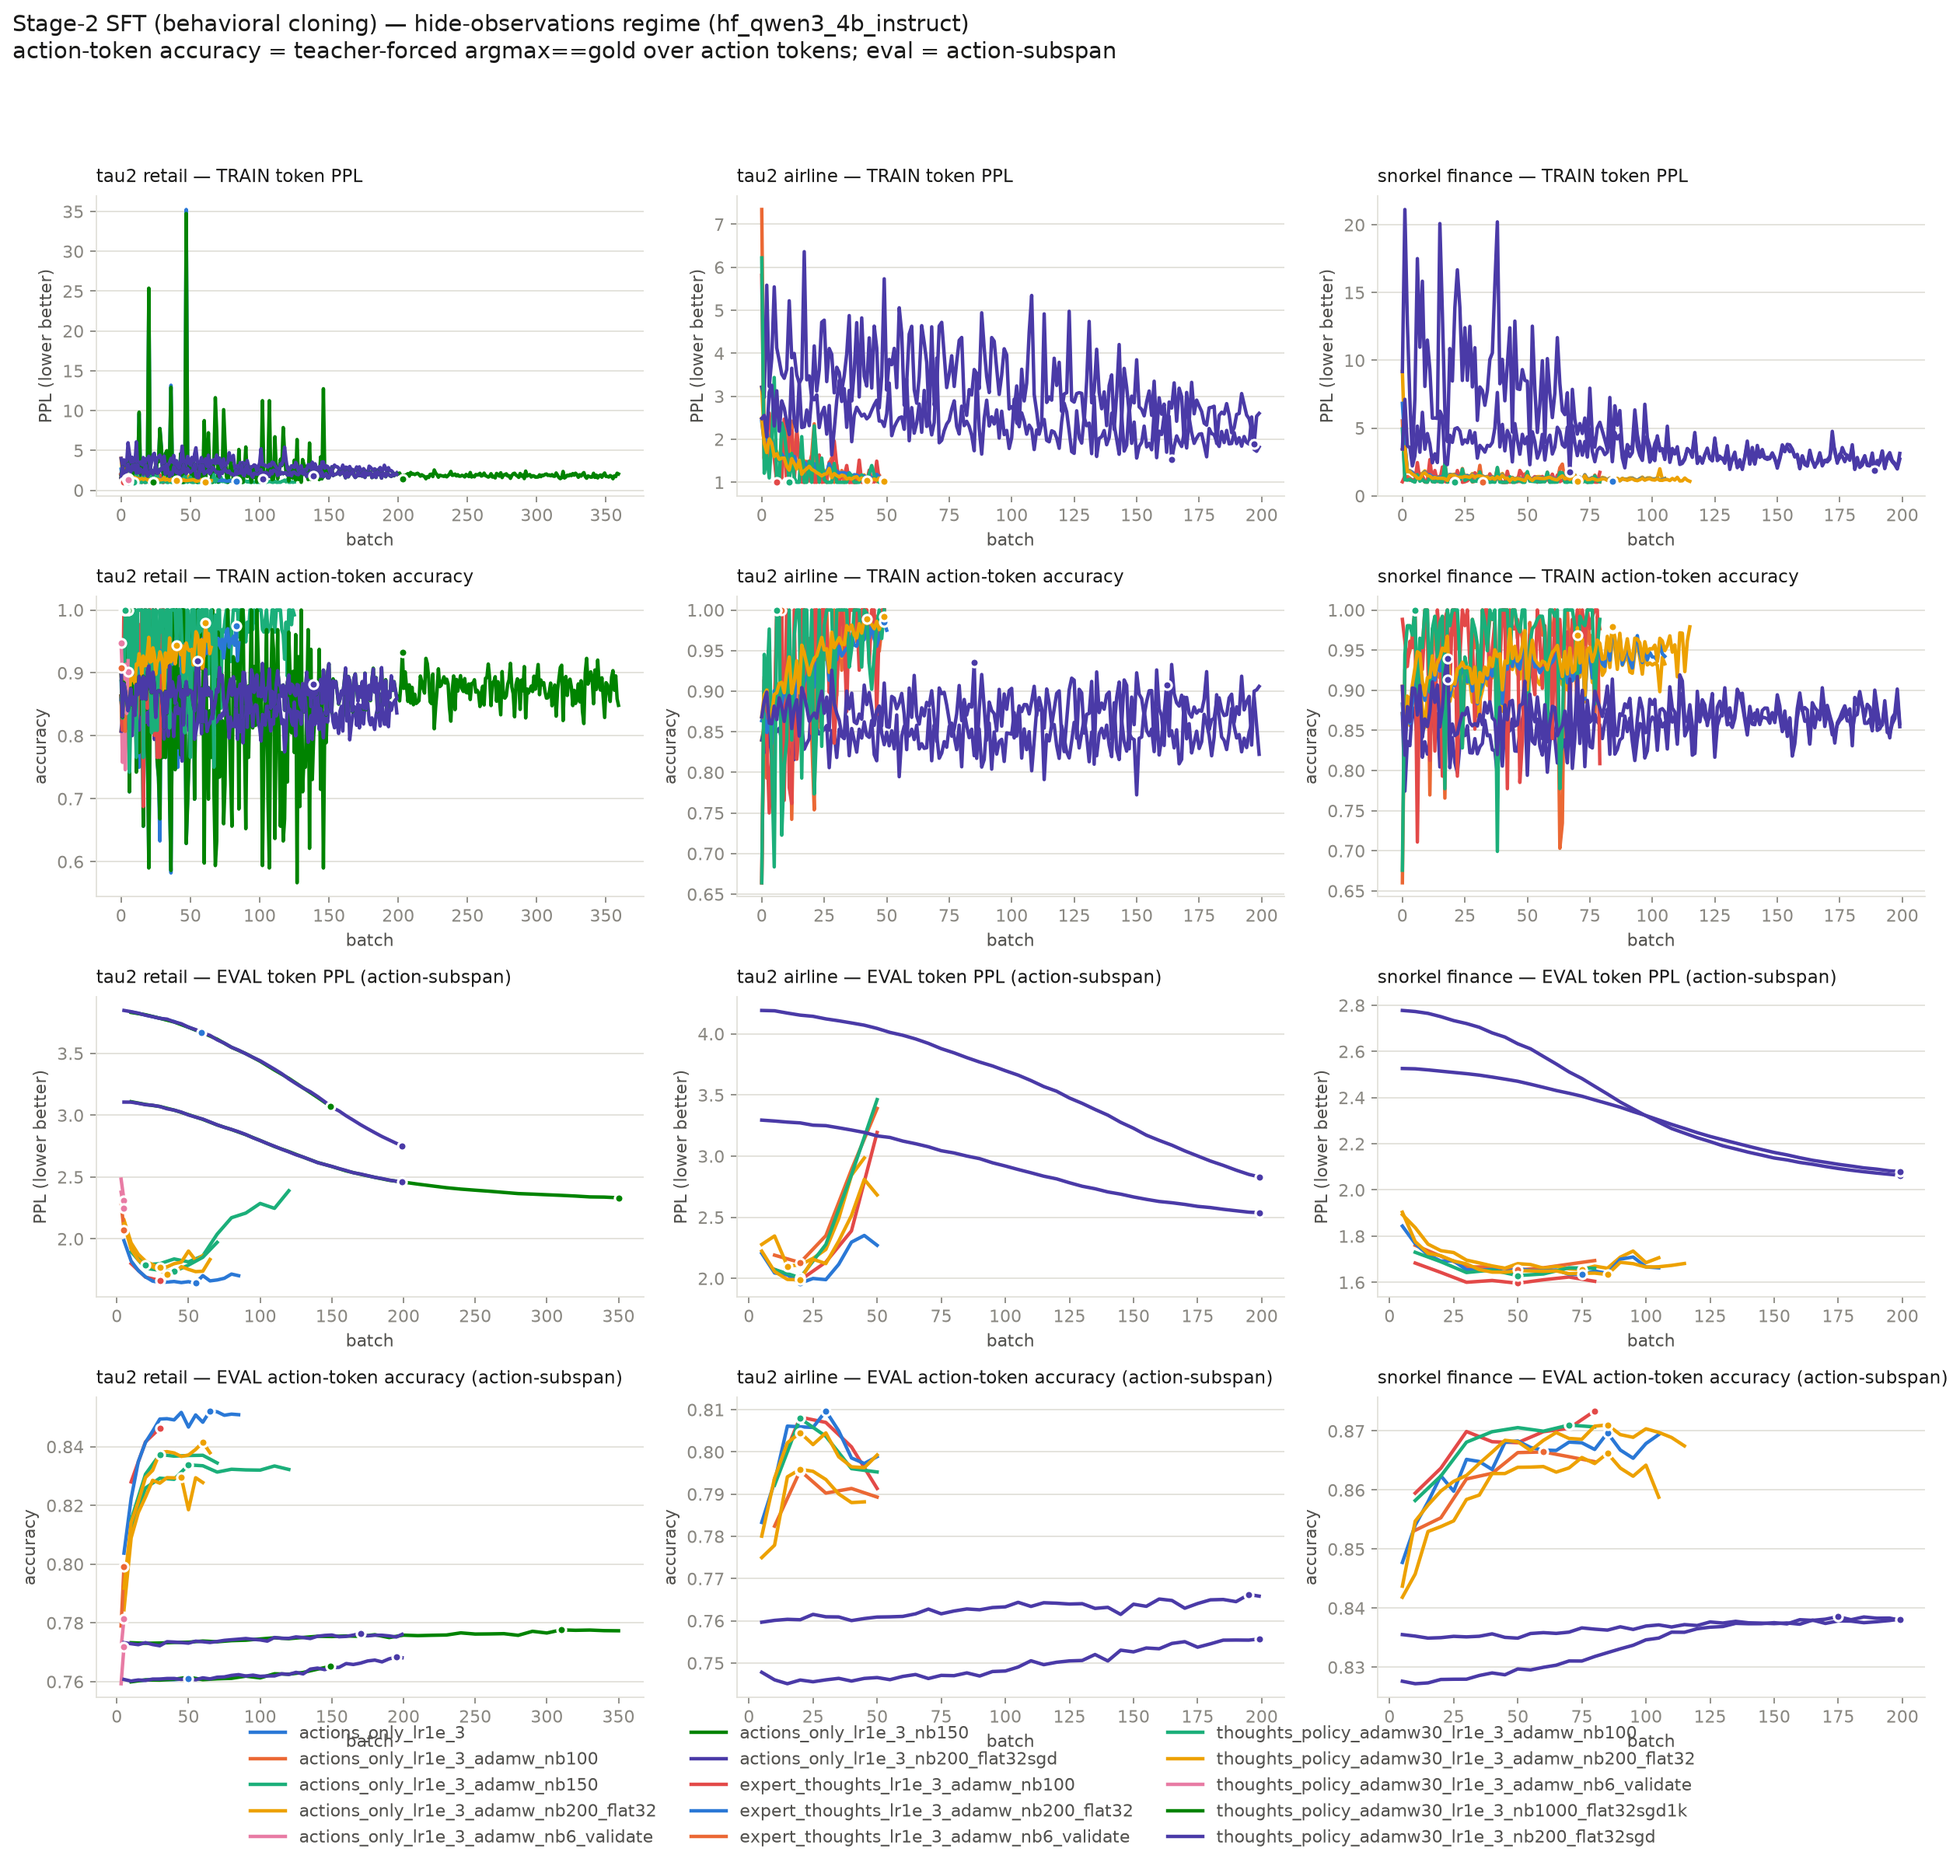
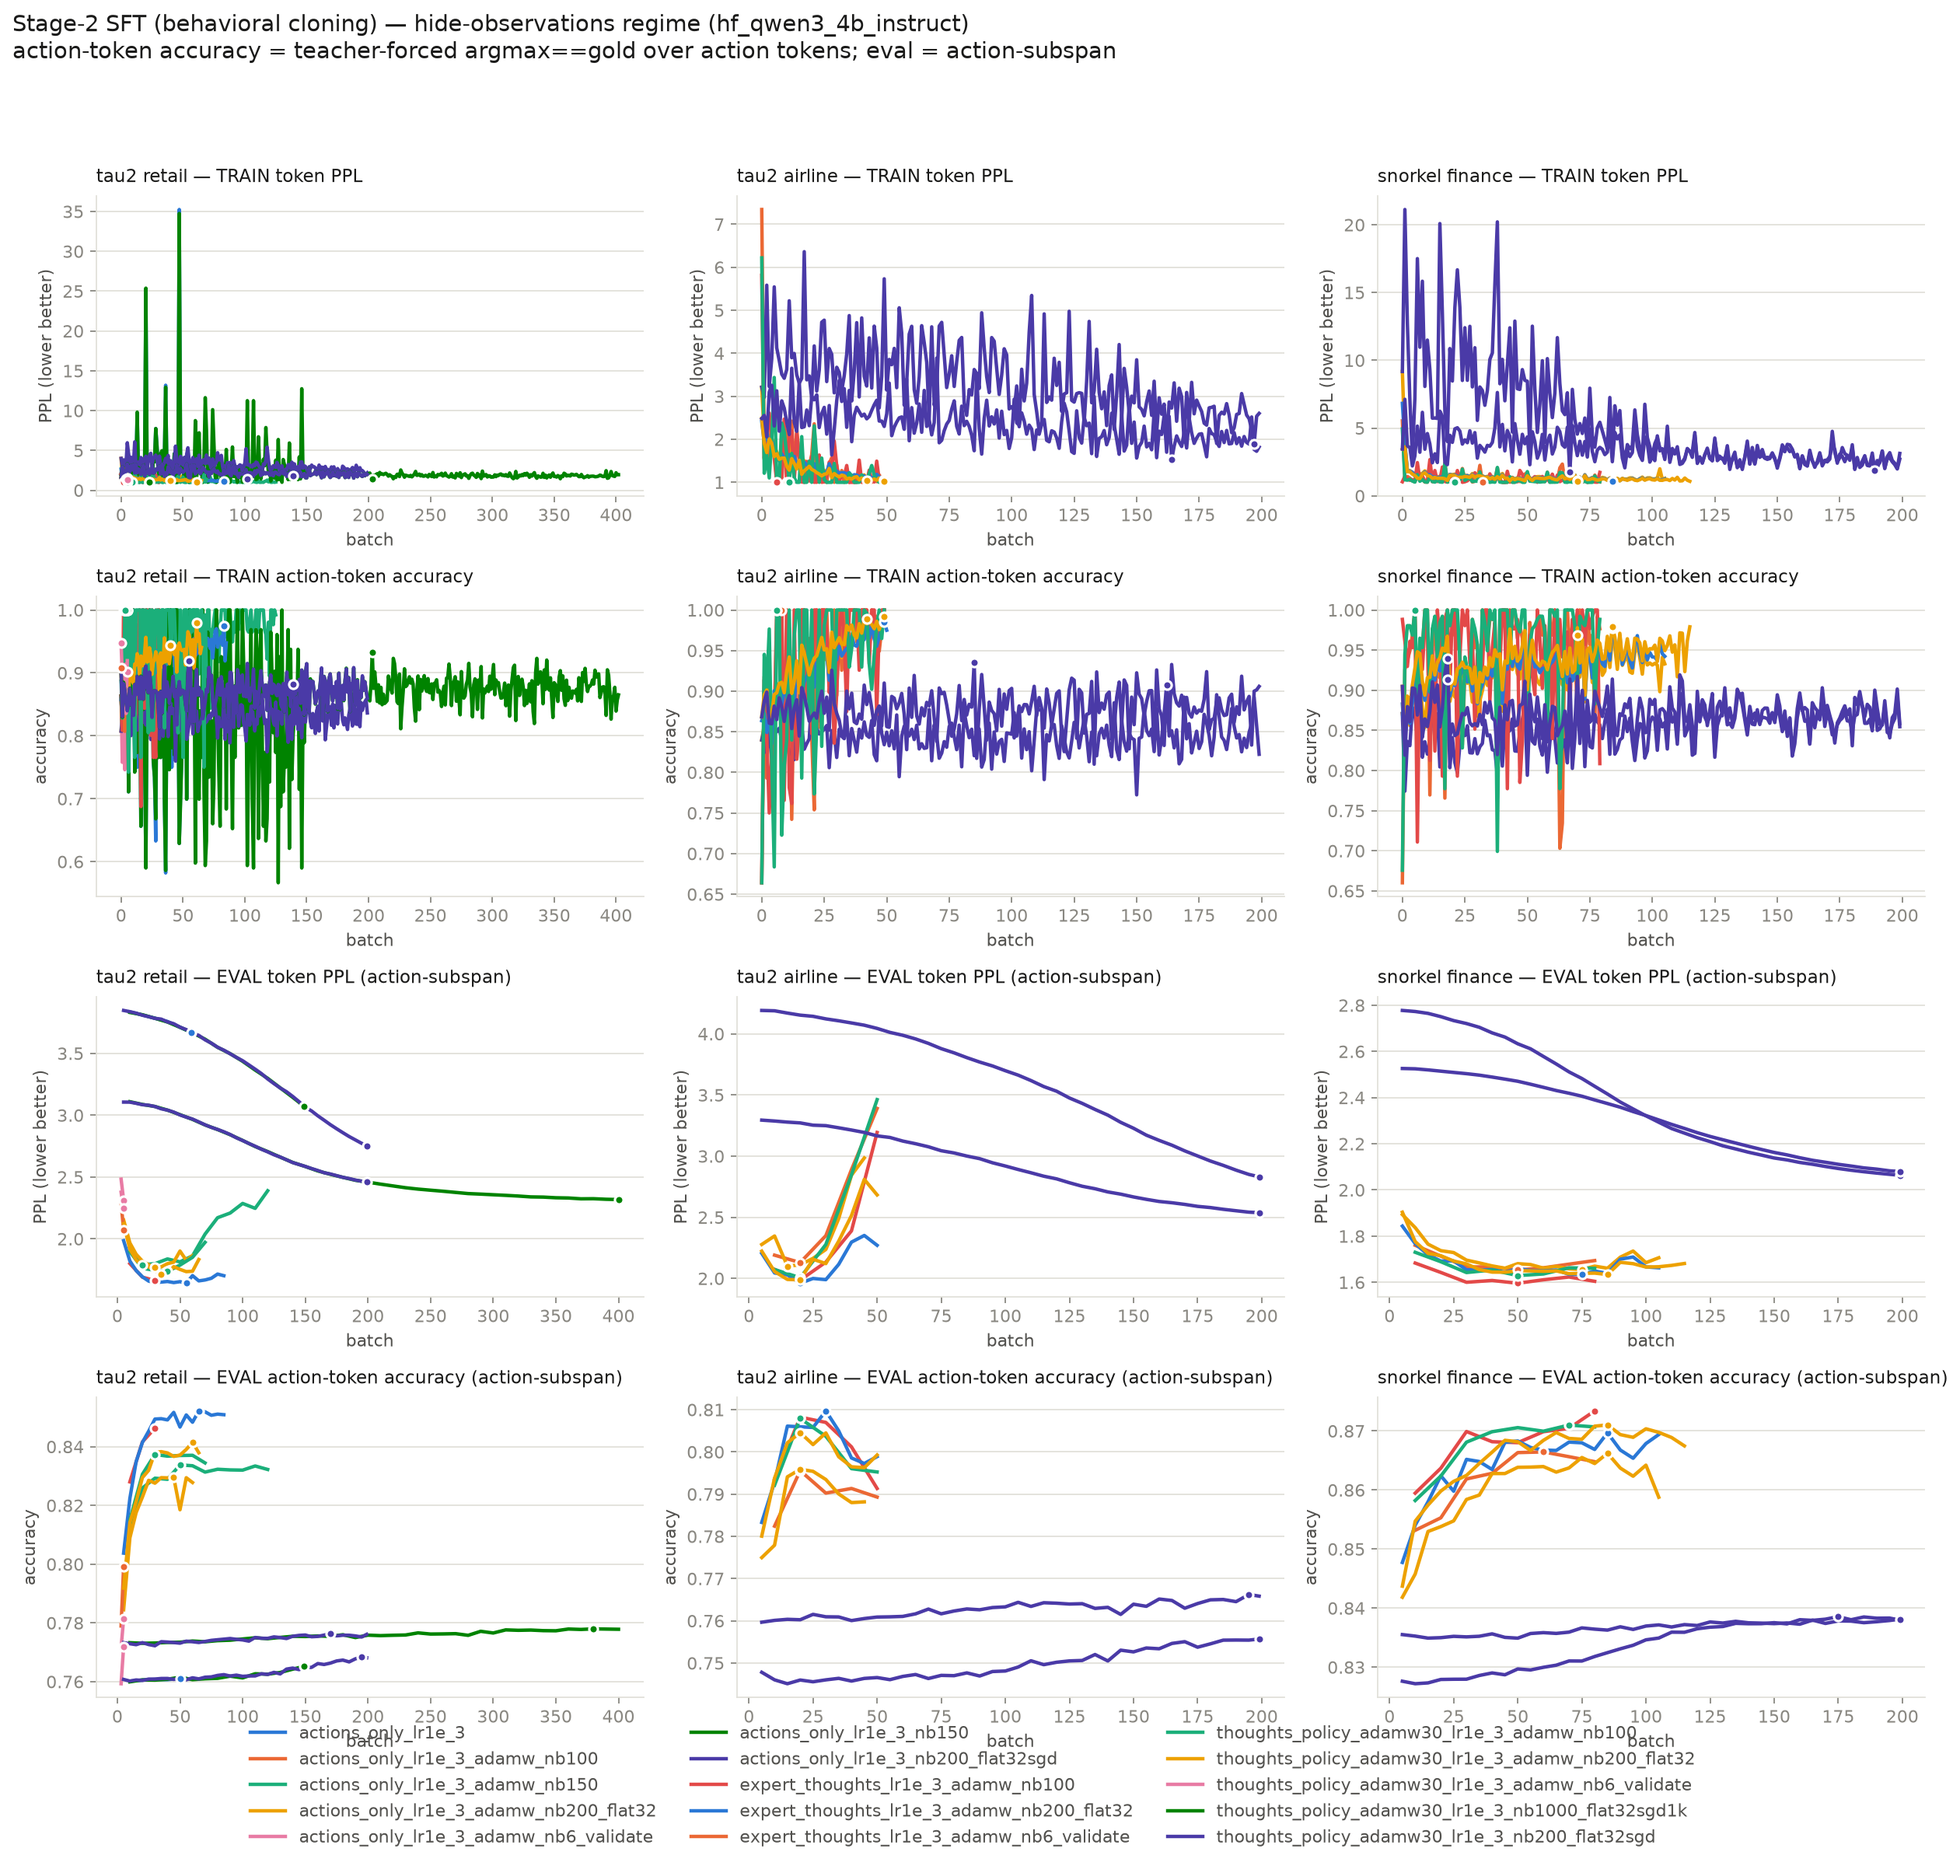
auto: SFT LR sweep results snapshot

diff --git a/notes/cc-5.0-sft-lr-investigation.md b/notes/cc-5.0-sft-lr-investigation.md
@@ -376,7 +376,7 @@ retail/expert_thoughts_lr1e_3_adamw_nb6_validate     hide    5     2.2879 ->   2
 retail/thoughts_policy_adamw30_lr1e_3_adamw_nb100    hide   70     1.8959 ->   1.9718  -4.00%  0.8345        1.3828  <running>
 retail/thoughts_policy_adamw30_lr1e_3_adamw_nb200_flat32 hide   65     2.1230 ->   1.8328  13.67%  0.8379        1.2222  <running>
 retail/thoughts_policy_adamw30_lr1e_3_adamw_nb6_validate hide    5     2.3775 ->   2.2449   5.57%  0.7814        1.3506
-retail/thoughts_policy_adamw30_lr1e_3_nb1000_flat32sgd1k hide  359     3.1089 ->   2.3322  24.98%  0.7773        2.0457  <running>
+retail/thoughts_policy_adamw30_lr1e_3_nb1000_flat32sgd1k hide  402     3.1089 ->   2.3177  25.45%  0.7778        1.9546  <running>
 retail/thoughts_policy_adamw30_lr1e_3_nb200_flat32sgd hide  199     3.1058 ->   2.4625  20.71%  0.7761        1.9910
 airline/actions_only_lr1e_3_adamw_nb100              hide   50     2.1901 ->   3.3899 -54.78%  0.7893        1.0000  <running>
 airline/actions_only_lr1e_3_adamw_nb200_flat32       hide   45     2.2776 ->   2.9850 -31.06%  0.7882        1.0679  <running>
@@ -397,7 +397,7 @@ snorkel_finance_split/thoughts_policy_adamw30_lr1e_3_nb200_flat32sgd hide  199  
 
 11/31 arms complete   (Δ% = held-out action-subspan PPL improvement, higher is better)
 ```
-_last refreshed: 2026-09-03 03:40_
+_last refreshed: 2026-09-03 04:00_
 <!--/RESULTS-->
 
 ## Infrastructure

diff --git a/notes/cc-3.0-retail_sft_results.md b/notes/cc-3.0-retail_sft_results.md
@@ -45,7 +45,7 @@ for wordiness rather than for mispredicting the action, which inverts the rankin
 | thoughts_policy_adamw30_lr1e_3_adamw_nb100 | hide | 1.7358 | 0.8368 | 40 | 1.9884 | 0.7917 | 20 | 0.3668 |
 | thoughts_policy_adamw30_lr1e_3_adamw_nb200_flat32 | hide | 1.7150 | 0.8383 | 35 | — | — | — | 0.2997 |
 | thoughts_policy_adamw30_lr1e_3_adamw_nb6_validate | hide | 2.2449 | 0.7814 | 5 | — | — | — | 0.6407 |
-| thoughts_policy_adamw30_lr1e_3_nb1000_flat32sgd1k | hide | 2.3322 | 0.7773 | 350 | — | — | — | 0.8470 |
+| thoughts_policy_adamw30_lr1e_3_nb1000_flat32sgd1k | hide | 2.3177 | 0.7778 | 400 | — | — | — | 0.7998 |
 | thoughts_policy_adamw30_lr1e_3_nb200_flat32sgd | hide | 2.4625 | 0.7761 | 199 | — | — | — | 0.8002 |
 | thoughts_policy_adamw30_lr1e_4_adamw_nb200_flat32 | hide | 1.7313 | 0.8393 | 140 | — | — | — | 0.2530 |
 | thoughts_policy_adamw30_lr3e_3_nb200_flat32sgd | hide | 2.2822 | 0.7809 | 199 | — | — | — | 0.6983 |
